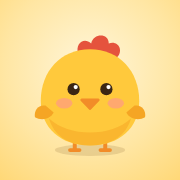
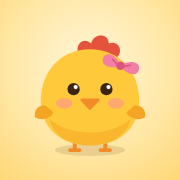
Give Lil Chicken her pink bow
Claude-Session: https://claude.ai/code/session_01T5e1c7y9FciXxc77cwycaV

Changed region(s): [[0.5556, 0.2778, 0.7778, 0.4167]]

diff --git a/js/art.js b/js/art.js
@@ -1,7 +1,7 @@
 // Artwork for Lil Chicken: an original chick character and a small icon set.
 // Everything is inline SVG, so it is crisp at any size and themes with CSS variables.
 
-/** The Lil Chicken mascot. mood: 'happy' | 'sleepy' */
+/** The Lil Chicken mascot (a girl, with her bow). mood: 'happy' | 'sleepy' */
 export function chick(mood = 'happy', cls = '') {
   const eyes = mood === 'sleepy'
     ? `<path d="M41 57q5 4 10 0M69 57q5 4 10 0" stroke="#3B2614" stroke-width="3.2" fill="none" stroke-linecap="round"/>`
@@ -17,6 +17,12 @@ export function chick(mood = 'happy', cls = '') {
     <path d="M98 70c6-1 10 4 9 10-5 3-13 2-16-4" fill="var(--yolk-deep)"/>
     <ellipse cx="38" cy="68" rx="7" ry="4.5" fill="var(--cheek)" opacity=".7"/>
     <ellipse cx="82" cy="68" rx="7" ry="4.5" fill="var(--cheek)" opacity=".7"/>
+    <g transform="rotate(18 86 36)">
+      <path d="M86 36c-5-7-15-9-16-2s9 8 16 2z" fill="var(--bow)"/>
+      <path d="M86 36c5-7 15-9 16-2s-9 8-16 2z" fill="var(--bow)"/>
+      <path d="M78 33c2 1 4 2 5 3M94 33c-2 1-4 2-5 3" stroke="var(--bow-deep)" stroke-width="1.4" stroke-linecap="round" fill="none"/>
+      <circle cx="86" cy="36" r="3.6" fill="var(--bow-deep)"/>
+    </g>
     ${eyes}
     <path d="M53 64h14c1 0 1.6 1 1 1.8L61.2 73a1.5 1.5 0 0 1-2.4 0L52 65.8c-.6-.8 0-1.8 1-1.8z" fill="var(--beak)"/>
   </svg>`;

diff --git a/css/app.css b/css/app.css
@@ -22,6 +22,8 @@
   --beak: #F28C28;
   --comb: #E5533D;
   --cheek: #FF9A84;
+  --bow: #F47FA4;
+  --bow-deep: #D9577F;
   --shadow-ink: rgba(120, 80, 30, .12);
 
   --left: #DD5A3F;          /* comb red */
